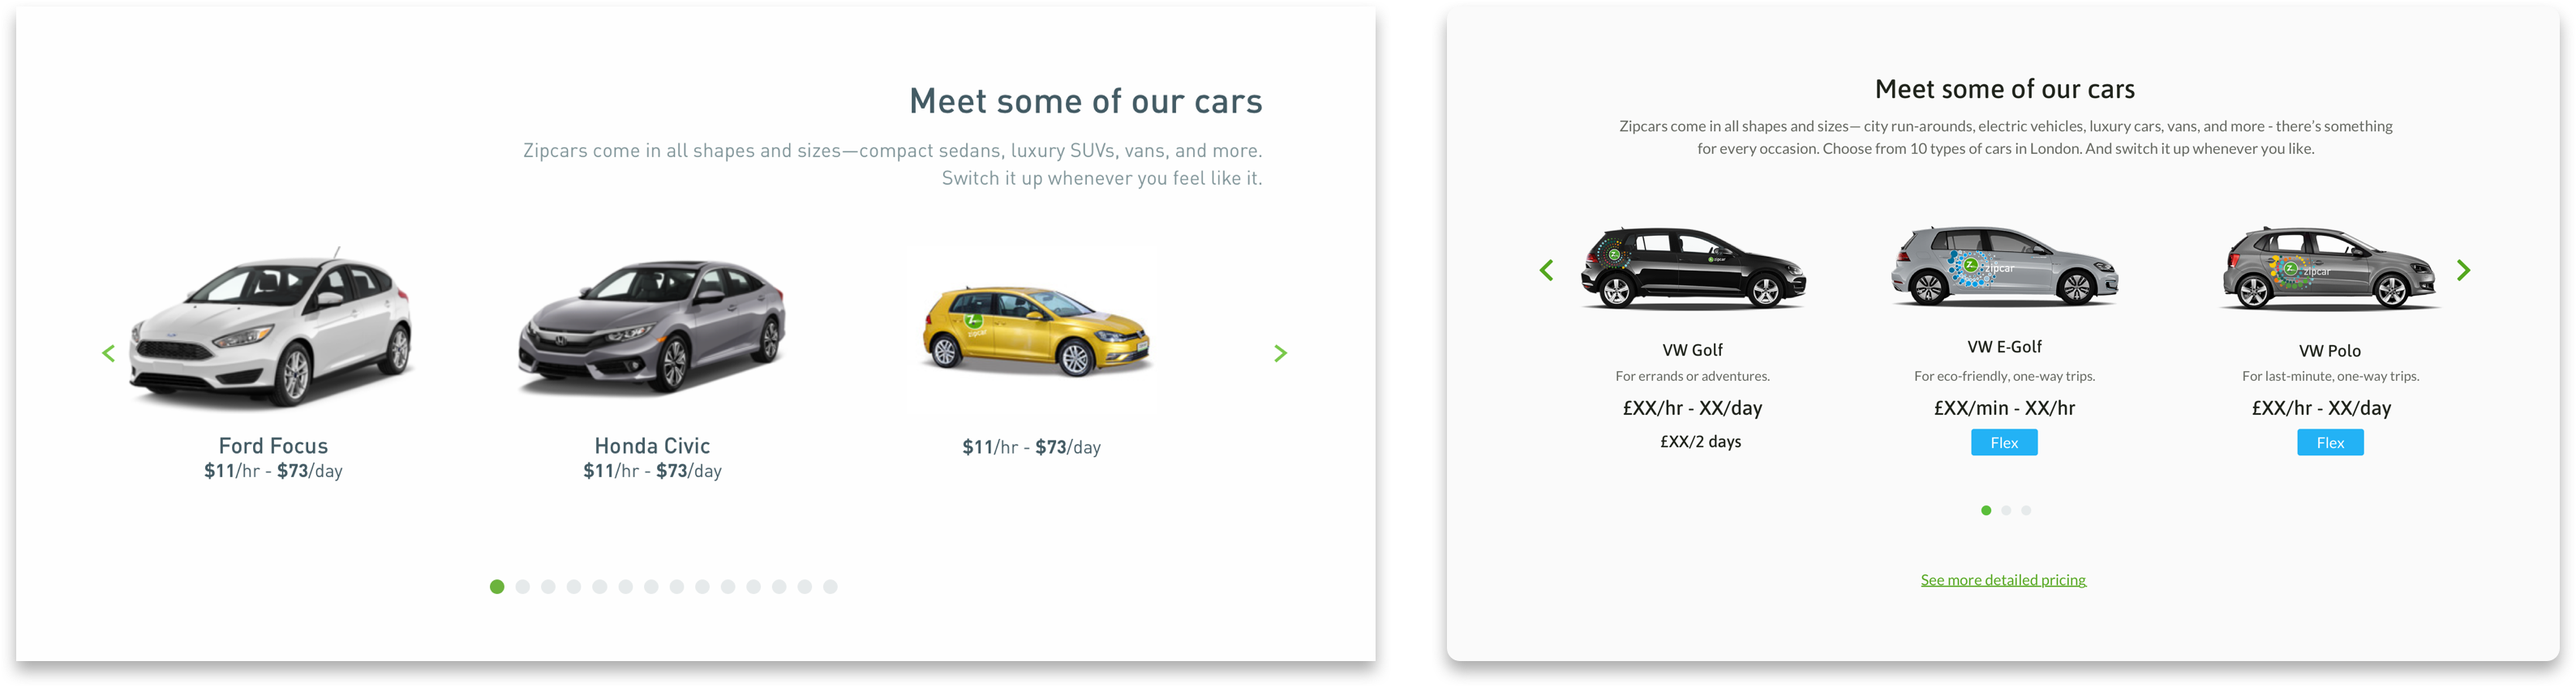
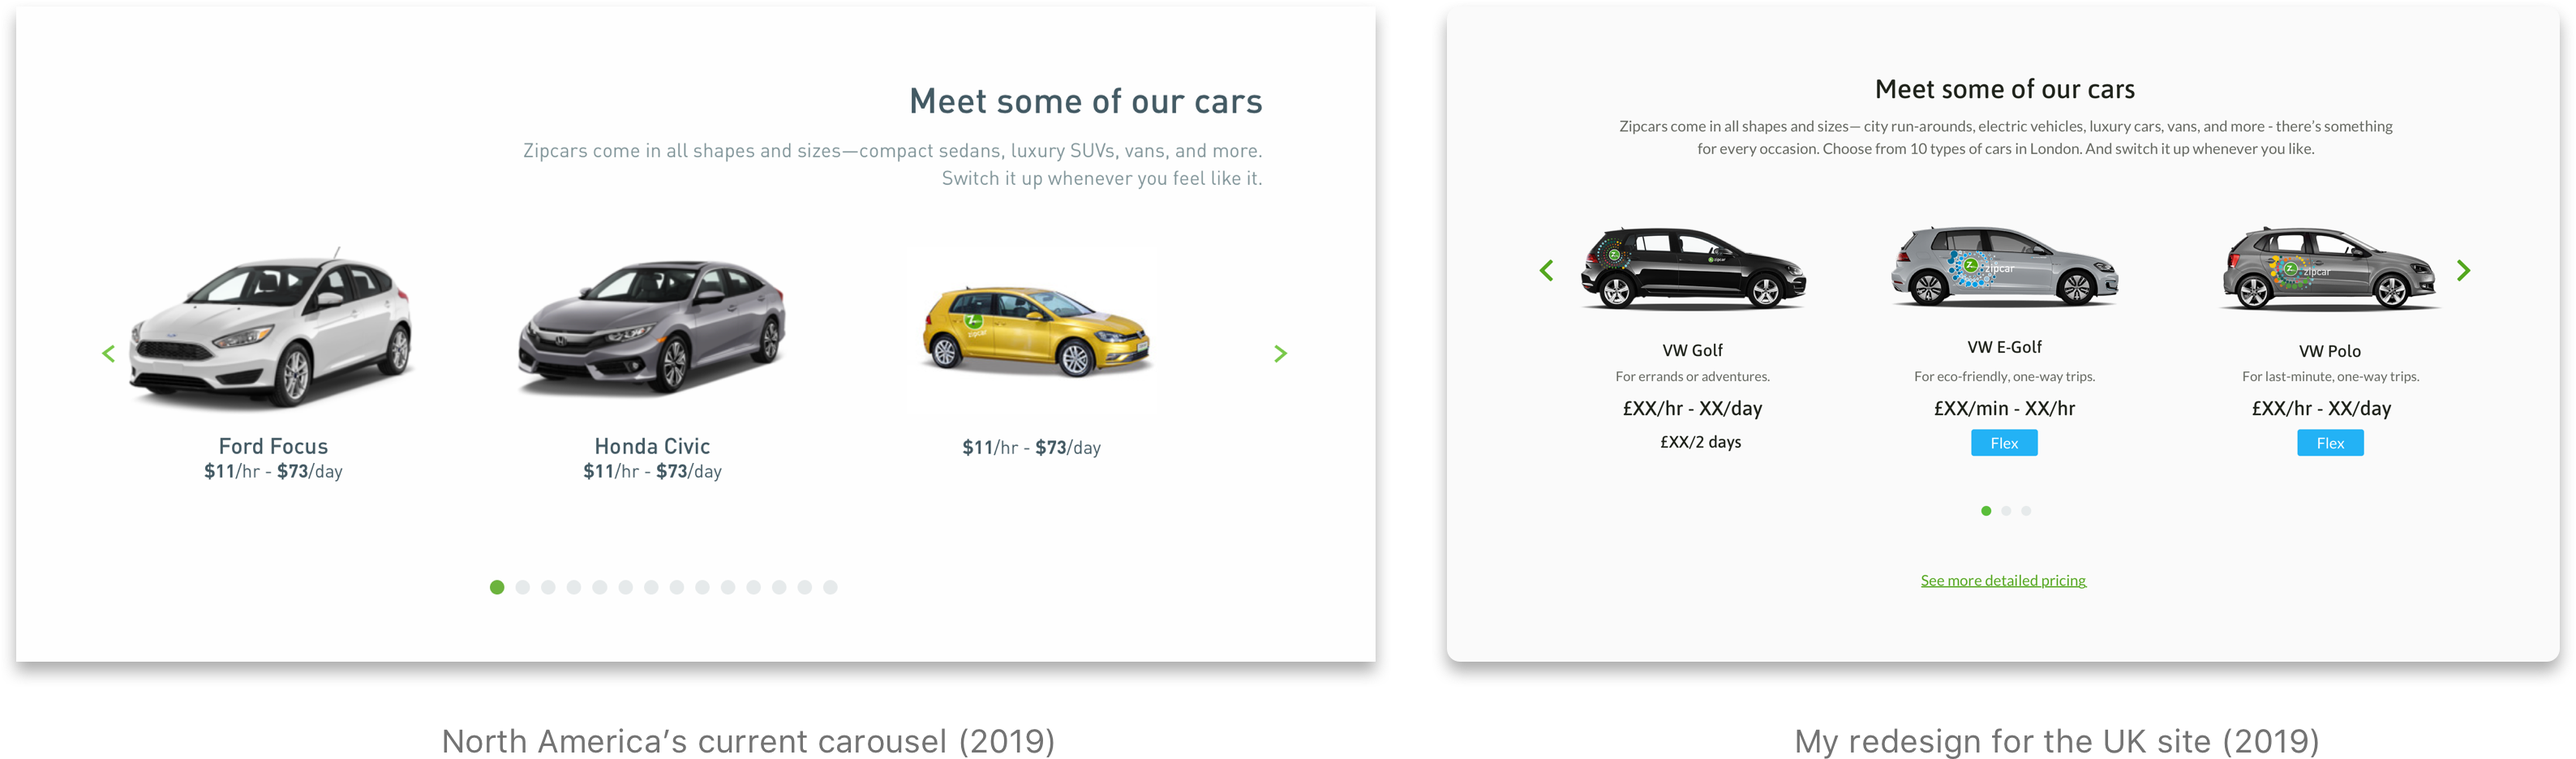
first iteration of zipcar officially donegit add --allgit add --allgit add --all

diff --git a/zipcar.html b/zipcar.html
@@ -46,7 +46,7 @@
 
 	<div class="project-desc-header">
 		<h1 class="project-desc-title">
-			Zipcar: Redesigning the UK Presales Site
+			Zipcar: UK Presales Site Redesign (Now Live!)
 		</h1>
 		<div class="project-desc-desc">
 			User Experience Designer Co-op / Spring 2019
@@ -58,7 +58,7 @@
 
 			<h2> Project Background </h2>
 
-			<p>As a UX Designer Co-op on the Zipcar Design team, one of my two projects was to lead the localization of the London Presales' design system to that of North America's. London is the primary and largest market for Zipcar Flex, a popular feature that allows customers to book Zipcars for one-way trips throughout the UK.</p>
+			<p>As a UX Designer Co-op on the Zipcar UX Design team, one of my two projects was to lead the localization of the London Presales' design system to that of North America's. London is the primary and largest market for Zipcar Flex, a popular feature that allows customers to book Zipcars for one-way trips throughout the UK.</p>
 
 			<p>It was an incredible experience working closely with a global team of stakeholders to hit one primary business OKR. The impact of my design decisions allows top feature Zipcar Flex to stay competitive in the market, and increase conversion rates to the business registration funnel.</p>
 
@@ -97,7 +97,7 @@
 
 			<h2> Icons and Illustrations: Flatline or Circular? </h2>
 
-			<p>Iconography is crucial to Zipcar's branding. For Consumer pages, the brand voice relies on the playfulness and authenticity of icons and illustrations to visually convey messages and values. Through many icon explorations, the US Marketing Team and Zipcar Design Team chose to transition to colorful circular icons. Containing illustrations in circles, detailing the same border width, and referencing the style guide's color palette contributed to visual consistency throughout the Consumer pages.</p>
+			<p>Iconography is crucial to Zipcar's branding. For Consumer pages, the brand voice relies on the playfulness and authenticity of icons and illustrations to visually convey messages and values. Through many icon explorations, the US Marketing Team and UX Design Team chose to transition to colorful circular icons. Containing illustrations in circles, detailing the same border width, and referencing the style guide's color palette contributed to visual consistency throughout the Consumer pages.</p>
 
 			<center>
 				<img src="images/Zipcar/consumer-icons.png" alt="Zipcar's consumer icons.">
@@ -119,20 +119,30 @@
 
 			<h2>Car Carousel</h2>
 
+			<p>The Car Carousel is one of the most interacted components on the Presales site, making it an extremely valuable affordance for the business. Due to the flexible application of the component's information, there are multiple touchpoints to access this carousel: Consumer Home, Pricing, and Zipcar Flex.</p>
+
 			<center>
 				<img src="images/Zipcar/car-carousel-gif.gif" alt="Car carousel interaction GIF">
 			</center>
 
-			<p>The Car Carousel is one of the most interacted components on the Presales site, making it an extremely valuable affordance for the business. Due to the flexible application of the component's information, there are multiple touchpoints to access this carousel: Consumer Home, Pricing, and Zipcar Flex.</p>
+			<div class="split-screen-planes">
 
-			<p> The previous design featured cars and pricing in a table, taking up a lot of vertical screen real estate. While the table-view was a one-stop shop to all types of cars (i.e. Small, Luxury, Vans) and highlighted pricing, the business value has since then shifted emphasis to Round-trip vs. Flex cars, and aesthetic comfort over cost. <br><br>
-			A carousel invites fun user interaction, allows for easy visual scanning, and minimizes information overload.</p>
+				<div class="left-planes">
+					<center>
+						<img src="images/Zipcar/pricing-table.png" alt="Old UK design for car display.">
+					</center>
+				</div>
+
+				<div class="right-planes">
+					<p> The previous design featured cars and pricing in a table, taking up a lot of vertical screen real estate. While the table-view was a one-stop shop to all types of cars (i.e. Small, Luxury, Vans) and highlighted pricing, the business value has since then shifted emphasis to Round-trip vs. Flex cars, and aesthetic comfort over cost. <br><br>
+					A carousel invites fun user interaction, allows for easy visual scanning, and minimizes information overload.</p>
+				</div>
+			</div>
 
 			<p>Although my task was to localize, or update components, from the UK site to North America's, there were some visual elements I improved upon the existing carousel.</p>
 
 			<center>
 				<img src="images/Zipcar/carousel-comparison.png" class="resize-60-percent" alt="Carousel comparison">
-				<p class="caption">A side-to-side comparision of the current North America carousel and my redesign for the UK site.</p>
 			</center>
 
 			<p>I wanted to build upon the structure of the current North America's carousel (left) in my redesign (right). In the redesign, the content feels more centered and grounded on the page by centering the heading and description, as well as minimizing the white space between the right carousel arrow and the car.</p>
@@ -147,12 +157,15 @@
 
 			<h2>Cost Calculator</h2>
 
+			<p>Based on positive engagement metrics with the Cost Calculator on the North America site, we brought the feature over to the UK site.</p>
+
+
 			<center>
 				<img src="images/Zipcar/cost-calc-gif.gif" alt="Car carousel interaction GIF">
 				<p class="caption">The cost calculator is a feature for users to estimate cost for an ideal Zipcar trip.</p>
 			</center>
 
-			<p>Based on positive engagement metrics with the Cost Calculator on the North America site, we brought the feature over to the UK site. Working with my PM and Head of UK Marketing, we wanted to offer estimated pricing for an errand-specific Round Trip or a time-based Flex VW Electric-Golf car. I explored different information across specific selected states. One example of an iteration for Flex VW Electric-Golf was to use the slider for selecting time rather than milage, since pricing was only time-dependent.</p>
+			<p>Working with my PM and Head of UK Marketing, we wanted to offer estimated pricing for an errand-specific Round Trip or a time-based Flex VW Electric-Golf car. I explored different information across specific selected states. One example of an iteration for Flex VW Electric-Golf was to use the slider for selecting time rather than milage, since pricing was only time-dependent.</p>
 
 			<center>
 				<img src="images/Zipcar/select_trip_component.png" alt="Select Trip Component">
@@ -168,10 +181,6 @@
 
 			<h2>Geographic Map</h2>
 
-			<center>
-				<img src="images/Zipcar/map-gif.gif" alt="Car carousel interaction GIF">
-			</center>
-
 			<p>The map is one of the final interactive components on the site. In the previous UK site, the map showed a more prominent blue overlay for the Flex zone and displayed all Zipcars as standard location pins.</p>
 
 			<center>
@@ -181,9 +190,10 @@
 
 			<p>My feedback to my PM was that the blue overlay was too heavy on the map, almost like the city "was underwater"&#8212;I also noticed that it caused visible accessibility issues with the blue Flex pins and River Thames. I submitted a ticket for the engineers to reduce the opacity by 70%, which has been successfully developed. To further increase visibility of pins, I redesigned them to show only the pin heads; the selected state will feature a larger pin with the pin needle to differentiate itself. </p>
 
+
 			<center>
-				<img src="images/Zipcar/new-map.png" alt="Redesigned map">
-				<p class="caption">The redesign of the map. The blue Flex zone is 70% more transparent than the original, and car pins have been simplified to just the pin head.</p>
+				<img src="images/Zipcar/map-gif.gif" alt="Car carousel interaction GIF">
+				<p class="caption">The redesign of the map, now live on the site. The blue Flex zone is 70% more transparent than the original, and car pins have been simplified to just the pin head.</p>
 			</center>
 
 			<div class="space-between">
@@ -209,10 +219,17 @@
 
 			<center>
 				<img src="images/Zipcar/excel.png" alt="Using an Excel sheet to collaborate.">
+				<p class="caption">Using a shared Excel document as our "dev-ops" to track progress</p>
 			</center>
 
 
 			<p>As the main designer driving the design decisions of this project, I was responsible for delivering updated Sketch artboards to Zeplin and checking-off delegated tasks on Jira. The senior designers on the UX Design Team were very supportive by sitting in on early team meetings to help with my onboarding to the big project, and often provided feedback on my design iterations!</p>
+
+			<center>
+				<img src="images/Zipcar/team-photo-yay.jpg" class="resize-medium" alt="A photo of me and the 2019 UX Design team at Zipcar!">
+				<p class="caption">My Zipcar UX Team and I (wearing the white shirt in the first row) :) I was the sole UX Designer co-op in Spring 2019!</p>
+			</center>
+
 
 			<div class="space-between">
 			</div>
@@ -228,7 +245,7 @@
 			<h2>Conclusion and Final Reflection</h2>
 
 			<p>It was an amazing learning experience to design for the UK market, and I'm grateful for my UX Design team in trusting me with such a global project. Working directly with stakeholders and the Head of UK Marketing taught me the direct correlation between user design and successful metrics. Communicating with my PM, backend, and frontend engineers guided me in creating optimized designs that were technically feasible to develop. It's still surreal for me to see my journey, growth, and hard work on the updated site!<br><br>
-			Feel free to view the new UK Zipcar site at https://www.zipcar.com/en-gb!</p>
+			Feel free to view the new UK Zipcar site at <a href="https://www.zipcar.com/en-gb">https://www.zipcar.com/en-gb</a>!</p>
 
 			<br><br><br><br><br>
 

diff --git a/individual_projects.css b/individual_projects.css
@@ -169,12 +169,12 @@ nav .container-fluid {
 
 	.project-desc-title {
 		font-family: SF-Pro-Bold;
-		font-size: 44px;
-		margin-top: 40px;
-		margin-left: 150px;
-		padding-bottom: 10px;
+		font-size: 30px;
+		padding-bottom: 20px;
 		color: black;
-		width: 100%;
+		width: 50%;
+		margin: 0 auto;
+		margin-top: 20px;
 	}
 
 	.project-desc-desc {
@@ -182,6 +182,8 @@ nav .container-fluid {
 		margin-left: 150px;
 		text-align: left;
 		color: gray;
+		width: 50%;
+		margin: 0 auto;
 	}
 
 	.project-desc-img-front {
@@ -240,7 +242,7 @@ nav .container-fluid {
 		}
 
 		.resize-medium{
-			max-width: 700px !important;
+			max-width: 540px !important;
 		}
 
 
@@ -290,21 +292,22 @@ nav .container-fluid {
 			display:flex;
 			justify-content: space-around;
 			margin: 2% auto;
+			margin-bottom: 90px;
 		}
 
 		.left-planes {
-			width: 15%;
+			width: 32%;
 			text-align: right;
 		}
 
 		.right-planes {
-			width: 70%;
+			width: 60%;
 		}
 
 		.right-planes > p {
 			margin: 1%;
 			font-size: 14px;
-			color: #e82f2c;
+			color: black;
 		}
 
 		.right-planes > .good {

diff --git a/index.html b/index.html
@@ -7,6 +7,7 @@
 
 	<link rel="stylesheet" type="text/css" href="card.css">
 	<link rel="stylesheet" type="text/css" href="styles.css">
+	<script src="navbar-scroll.js"></script>
 
 	<link href="https://afeld.github.io/emoji-css/emoji.css" rel="stylesheet">
 
@@ -102,7 +103,7 @@
 			</a>
 
 
-			<a class="long-card zipcar">
+			<a class="long-card zipcar" href="zipcar.html">
 				<div class="image">
 					<img src="images/Zipcar/consumer_homepage.png" />
 				</div>
@@ -114,7 +115,9 @@
 						UX Designer Co-op Case Study
 					</div>
 					<div class="description">
-						Redesigned the entire UK London Presales site. Designed member communication and transactional emails. Both projects are now live. <br><br><b>**Case Study is not available yet.**</b>
+						Redesigned the entire UK London Presales site, which is now live! Read my case study here. <br><br>
+
+						(I also redesigned Zipcar Member Communication and Transactional emails, which are live as well. The case study is not available yet.)
 					</div>
 				</div>
 			</a>

diff --git a/styles.css b/styles.css
@@ -128,16 +128,20 @@ nav.stroke ul li a:hover:after {
 	/*font-family: 'Roboto', sans-serif;*/
 	font-family: SF-Pro-Light;
 	/*letter-spacing: 2px;*/
-	background: white;
+	background-color: white;
 	border-color: white;
-	padding-top: 60px;
-	padding-bottom: 10px;
+	padding-bottom: 8px;
 	padding-left: 110px;
 	padding-right: 120px;
-/*	new: padding-top: 40px;
-		padding-bottom: 8px;
-		padding-left: 110px;
-		padding-right: 120px;*/
+    display: flex;
+    flex-direction: column;
+    justify-content: flex-end;
+    min-height: 70px;
+    height: 100px;
+}
+
+nav .container-fluid {
+    margin: unset;
 }
 
 /* index */
